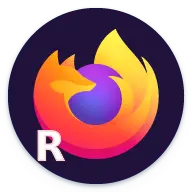
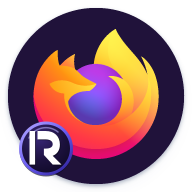
Improve RFirefox bootstrap diagnostics and branding

diff --git a/scripts/patch_firefox.py b/scripts/patch_firefox.py
@@ -418,27 +418,59 @@ def patch_fenix_release_strings(source: str) -> str:
     )
 
 
-RFIREFOX_R_PATH = (
-    "M22,62h10.8c5.6,0 9.2,3.2 9.2,8c0,4 -2.4,6.8 -6,8l6.8,8h-6.4"
-    "l-6,-7.2h-2.8V86H22zM27.6,66.8V74h4.8c2.4,0 4,-1.2 4,-3.6"
-    "s-1.6,-3.6 -4,-3.6z"
+RFIREFOX_BADGE_DISC_PATH = (
+    "M28.5,62.5a15,15 0,1 0,0 30a15,15 0,1 0,0 -30z"
 )
+RFIREFOX_BADGE_SHADOW_PATH = (
+    "M28.5,63.3a15,15 0,1 0,0 30a15,15 0,1 0,0 -30z"
+)
+RFIREFOX_R_STEM_PATH = "M19.5,68.5h3.15v18.9h-3.15z"
+RFIREFOX_R_BOWL_PATH = (
+    "M24,68.5h4.5c4.95,0 8.1,2.925 8.1,7.65"
+    "c0,3.15 -1.575,5.4 -4.05,6.3l4.95,4.95h-4.95l-4.95,-5.4v-3.6h0.9"
+    "c2.7,0 4.05,-0.9 4.05,-2.475s-1.35,-2.7 -4.05,-2.7H24z"
+)
+RFIREFOX_R_PATHS = (RFIREFOX_R_STEM_PATH, RFIREFOX_R_BOWL_PATH)
 
 RFIREFOX_ADAPTIVE_BADGE = f"""  <!-- RFirefox launcher badge. Keep the upstream Firefox artwork unchanged. -->
   <path
-      android:pathData="{RFIREFOX_R_PATH}"
+      android:pathData="{RFIREFOX_BADGE_SHADOW_PATH}"
+      android:fillColor="#66100629" />
+  <path
+      android:pathData="{RFIREFOX_BADGE_DISC_PATH}"
+      android:fillColor="#F21B113F"
+      android:strokeColor="#FF7567F8"
+      android:strokeWidth="1.2" />
+  <path
+      android:pathData="M17,75c2.4,-6.8 8.4,-10.6 14.8,-10.6"
+      android:fillColor="#00000000"
+      android:strokeColor="#99BBB4FF"
+      android:strokeWidth="0.8"
+      android:strokeLineCap="round" />
+  <path
+      android:pathData="{RFIREFOX_R_STEM_PATH}"
       android:fillColor="#FFFFFFFF"
-      android:fillType="evenOdd"
-      android:strokeColor="#CC171D33"
-      android:strokeWidth="1.2"
-      android:strokeLineJoin="round" />
+      android:fillType="nonZero" />
+  <path
+      android:pathData="{RFIREFOX_R_BOWL_PATH}"
+      android:fillColor="#FFFFFFFF"
+      android:fillType="nonZero" />
 """
 
 RFIREFOX_MONOCHROME_BADGE = f"""  <!-- RFirefox launcher badge. -->
   <path
-      android:pathData="{RFIREFOX_R_PATH}"
+      android:pathData="{RFIREFOX_BADGE_DISC_PATH}"
+      android:fillColor="#00000000"
+      android:strokeColor="#20123A"
+      android:strokeWidth="1.8" />
+  <path
+      android:pathData="{RFIREFOX_R_STEM_PATH}"
       android:fillColor="#20123A"
-      android:fillType="evenOdd" />
+      android:fillType="nonZero" />
+  <path
+      android:pathData="{RFIREFOX_R_BOWL_PATH}"
+      android:fillColor="#20123A"
+      android:fillType="nonZero" />
 """
 
 

diff --git a/tests/test_patch_firefox.py b/tests/test_patch_firefox.py
@@ -89,9 +89,12 @@ class CertificatePatchTest(unittest.TestCase):
         patched = patch_firefox.patch_fenix_launcher_foreground(upstream)
         self.assertIn('android:pathData="M0,0"', patched)
         self.assertIn("RFirefox launcher badge", patched)
-        self.assertIn(patch_firefox.RFIREFOX_R_PATH, patched)
+        self.assertIn(patch_firefox.RFIREFOX_BADGE_DISC_PATH, patched)
+        for r_path in patch_firefox.RFIREFOX_R_PATHS:
+            self.assertIn(r_path, patched)
         self.assertIn("#FFFFFFFF", patched)
-        self.assertIn("#CC171D33", patched)
+        self.assertIn("#FF7567F8", patched)
+        self.assertNotIn("android:translate", patched)
         ElementTree.fromstring(patched)
         self.assertEqual(
             patched,
@@ -100,7 +103,9 @@ class CertificatePatchTest(unittest.TestCase):
 
         monochrome = patch_firefox.patch_fenix_launcher_monochrome(upstream)
         self.assertIn('android:pathData="M0,0"', monochrome)
-        self.assertIn(patch_firefox.RFIREFOX_R_PATH, monochrome)
+        self.assertIn(patch_firefox.RFIREFOX_BADGE_DISC_PATH, monochrome)
+        for r_path in patch_firefox.RFIREFOX_R_PATHS:
+            self.assertIn(r_path, monochrome)
         self.assertIn("#20123A", monochrome)
         ElementTree.fromstring(monochrome)
         self.assertEqual(
@@ -113,6 +118,17 @@ class CertificatePatchTest(unittest.TestCase):
             data = Path(asset_path).read_bytes()
             self.assertTrue(data.startswith(b"RIFF"), asset_path)
             self.assertEqual(data[8:12], b"WEBP", asset_path)
+
+        for overlay_name in (
+            "rfirefox-badge-square.svg",
+            "rfirefox-badge-round.svg",
+        ):
+            overlay = (patch_firefox.ICON_SOURCE_DIR / overlay_name).read_text(
+                encoding="utf-8"
+            )
+            self.assertNotIn("<text", overlay)
+            self.assertNotIn("font-family", overlay)
+            self.assertIn("<path", overlay)
 
     def test_legacy_launcher_assets_are_copied_idempotently(self) -> None:
         with tempfile.TemporaryDirectory() as directory:

diff --git a/tests/test_release_workflow.py b/tests/test_release_workflow.py
@@ -6,6 +6,7 @@ from pathlib import Path
 
 REPOSITORY_ROOT = Path(__file__).resolve().parents[1]
 WORKFLOW = REPOSITORY_ROOT / ".github/workflows/build-android.yml"
+BOOTSTRAP_SCRIPT = REPOSITORY_ROOT / "scripts/run_bootstrap_with_heartbeat.sh"
 
 
 class ReleaseWorkflowPolicyTest(unittest.TestCase):
@@ -33,6 +34,20 @@ class ReleaseWorkflowPolicyTest(unittest.TestCase):
     def test_existing_firefox_release_skips_the_expensive_build(self) -> None:
         self.assertIn("release_exists:", self.workflow)
         self.assertIn("needs.resolve.outputs.release_exists != 'true'", self.workflow)
+
+    def test_bootstrap_has_live_diagnostics_without_an_extra_timeout(self) -> None:
+        bootstrap_script = BOOTSTRAP_SCRIPT.read_text(encoding="utf-8")
+
+        self.assertNotIn("timeout-minutes: 100", self.workflow)
+        self.assertNotIn("RFIREFOX_BOOTSTRAP_TIMEOUT", self.workflow)
+        self.assertIn("run_bootstrap_with_heartbeat.sh", self.workflow)
+        self.assertIn("Upload bootstrap diagnostics", self.workflow)
+        self.assertIn("if: ${{ always() }}", self.workflow)
+        self.assertNotIn("timeout --", bootstrap_script)
+        self.assertIn("PYTHONUNBUFFERED=1 stdbuf", bootstrap_script)
+        self.assertIn("Firefox bootstrap heartbeat", bootstrap_script)
+        self.assertIn("bootstrap.log", bootstrap_script)
+        self.assertIn("summary.txt", bootstrap_script)
 
 
 if __name__ == "__main__":

diff --git a/branding/README.md b/branding/README.md
@@ -1,7 +1,9 @@
 # RFirefox Android branding
 
 RFirefox preserves the standard Firefox release launcher artwork and adds a
-small white `R` in its lower-left corner.
+compact lower-left identity medallion. The split geometric `R`, inset panel,
+violet rim and highlight are designed as one mark rather than a font glyph
+placed over the Firefox artwork.
 
 The WebP files under `android/` are based on the corresponding standard and
 round Firefox assets from Mozilla tag `FIREFOX-ANDROID_153_0_4_RELEASE`. They
@@ -10,15 +12,17 @@ cover every density shipped by the Fenix release source set:
 - `rfirefox-<density>.webp` replaces `ic_launcher.webp`;
 - `rfirefox-round-<density>.webp` replaces `ic_launcher_round.webp`.
 
-The `R` overlay uses DejaVu Sans Bold, a white fill and a dark outline. The
-normal icon places it at approximately `(11.5%, 7.3%)` from the lower-left edge;
-the round variant moves it farther inside the circular safe area.
+The editable overlay masters are `rfirefox-badge-square.svg` and
+`rfirefox-badge-round.svg`. The normal icon uses an inset rounded-square
+medallion; the round icon uses a smaller circular version placed within its safe
+area. Neither changes the original launcher silhouette. Both use a two-part
+custom vector monogram which remains legible at the 48 px mdpi size.
 
 Adaptive and themed icons are not rasterized here. `scripts/patch_firefox.py`
-keeps Mozilla's foreground vectors intact and appends an equivalent `R` path to
-both the release/main foreground and monochrome VectorDrawables. This prevents
-the badge from disappearing when Android applies an adaptive mask or themed
-icon tint.
+keeps Mozilla's foreground vectors intact and appends an equivalent disc and
+split monogram to the release/main foreground. The monochrome VectorDrawable
+uses a ring plus the same split monogram, so the identity remains visible when
+Android applies an adaptive mask or themed-icon tint.
 
 Firefox and its logo are trademarks of Mozilla Foundation. See `NOTICE.md` and
 Mozilla's trademark policy before distributing the modified assets.

diff --git a/README.md b/README.md
@@ -193,6 +193,13 @@ python3 scripts/patch_firefox.py --source /path/to/firefox-source
 свободного SSD и несколько часов. GitHub workflow ограничен шестью часами и
 чистит только известные крупные каталоги одноразового GitHub-hosted runner.
 
+Шаг Mozilla bootstrap не имеет отдельного таймаута и может использовать всё
+время сборочного job. Во время его работы workflow раз в минуту выводит
+heartbeat, использование диска и памяти, а также снимок процессов. Полный вывод
+и итоговая диагностика всегда сохраняются на семь дней в artifact
+`bootstrap-diagnostics-<версия>-<run id>`. Heartbeat только наблюдает за
+процессом и не прерывает его.
+
 ## Ограничения и риски
 
 - Это не официальный Firefox и не результат аудита Mozilla.
